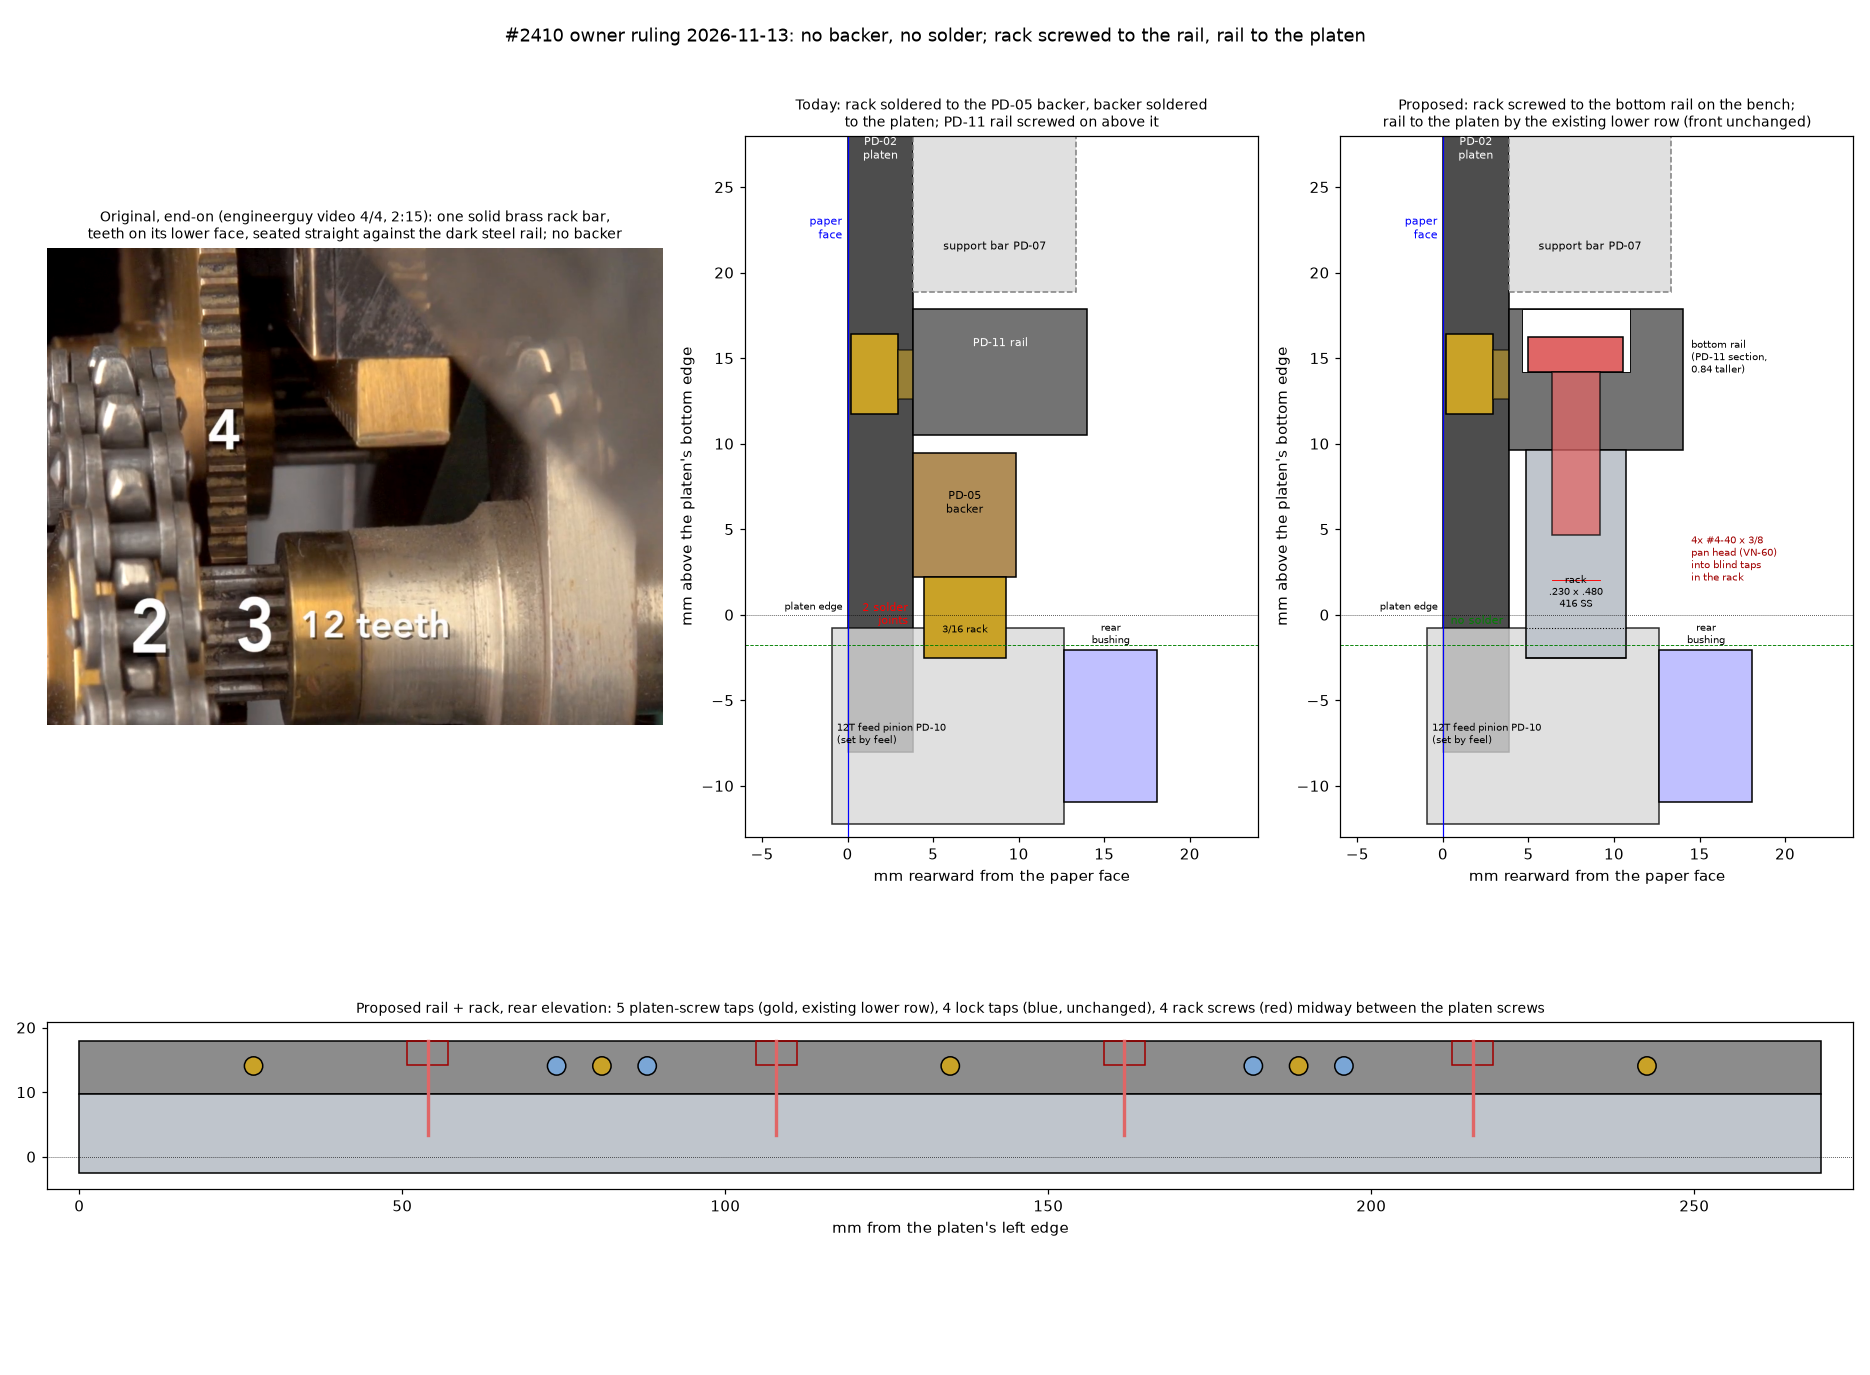
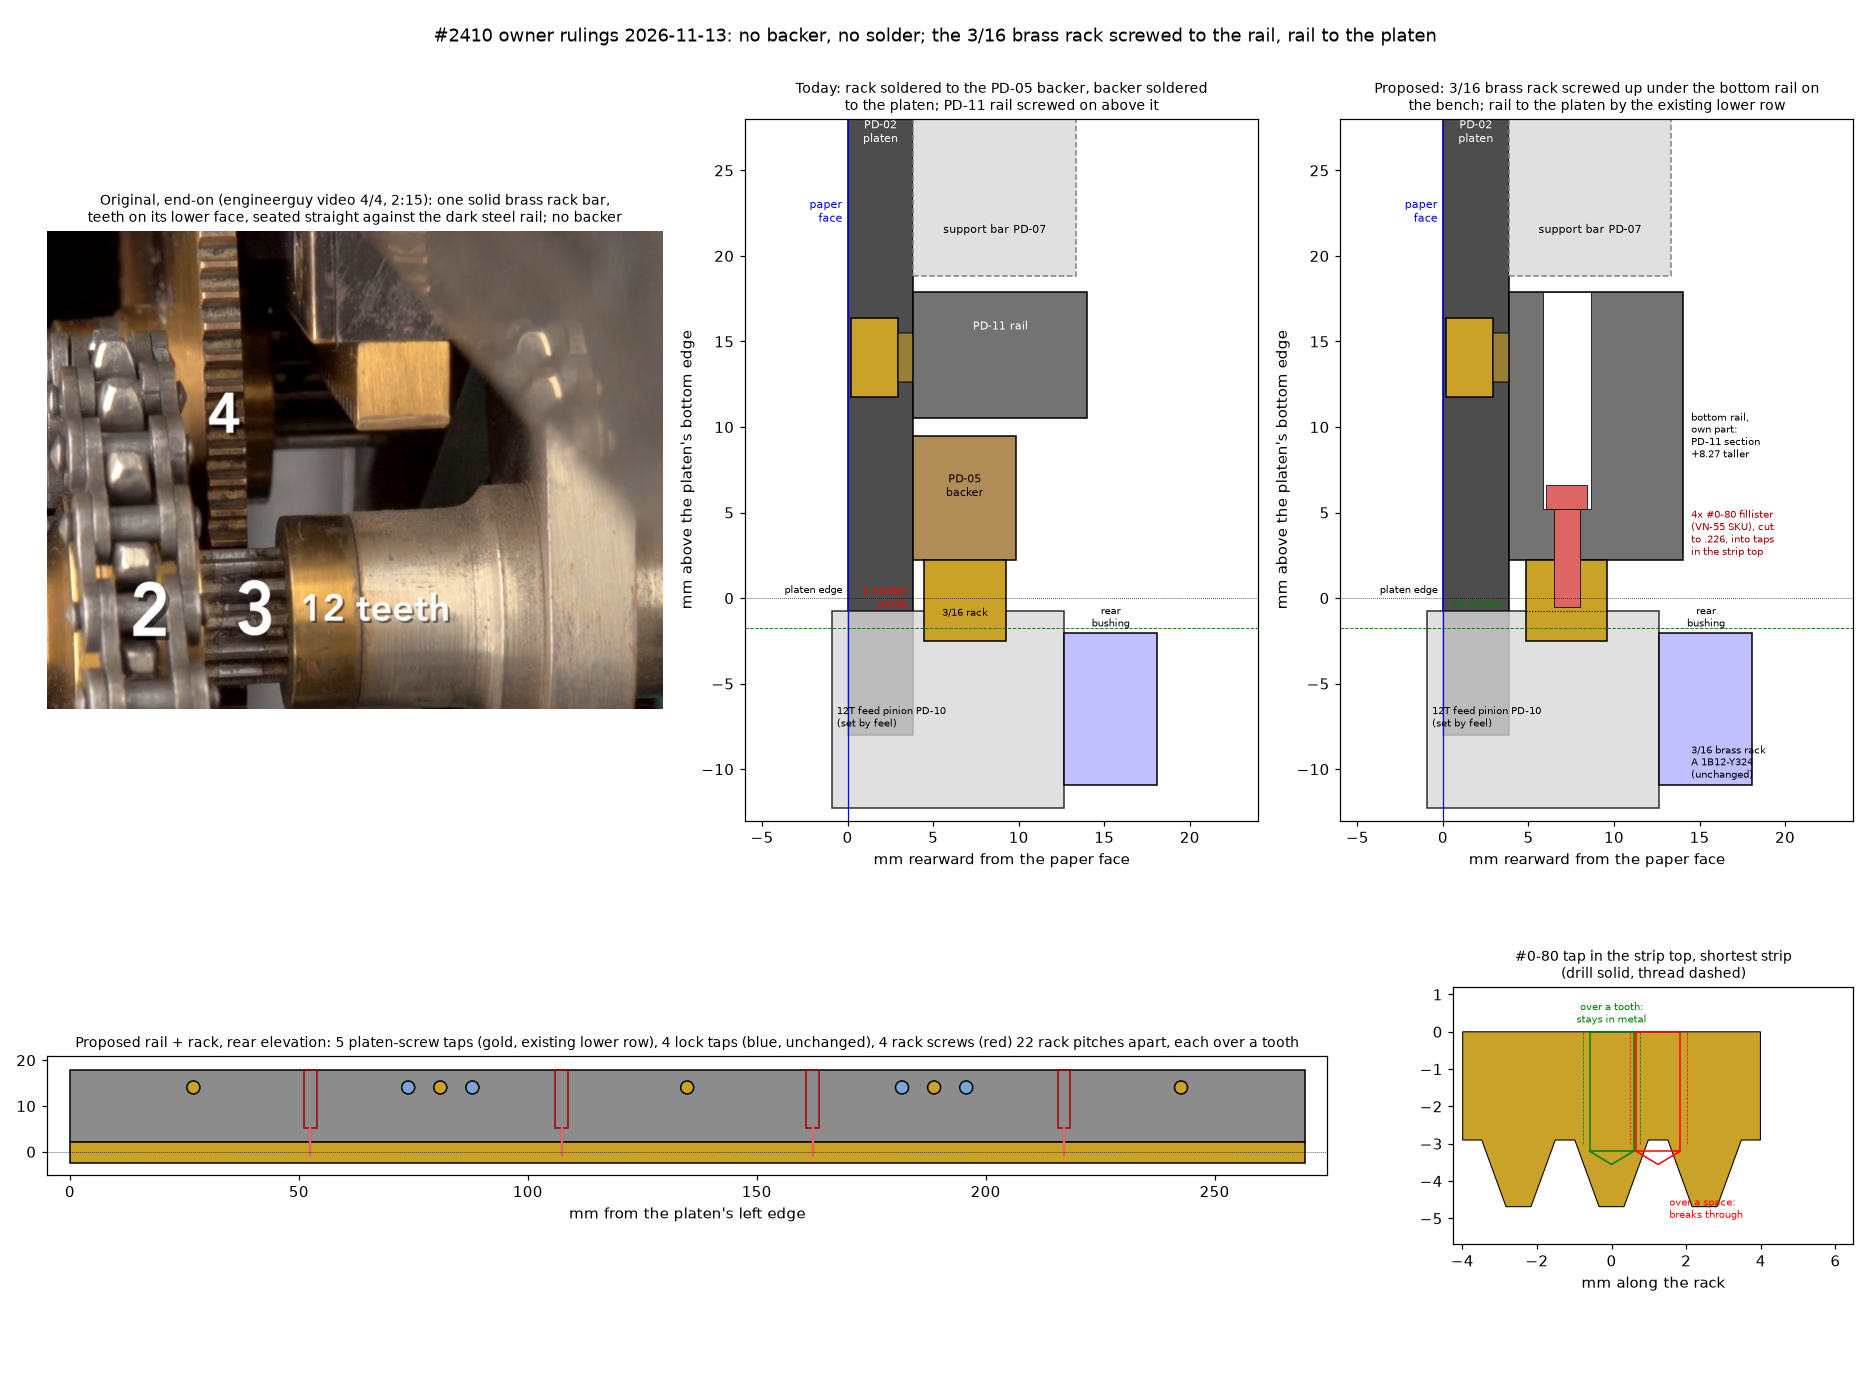
evidence: #2410 keep the 3/16 brass rack, #0-80 screws into the rail

diff --git a/compare_2410_ruling.py b/compare_2410_ruling.py
@@ -46,19 +46,26 @@ bar_bottom = rail_top + A.BOTTOM_RAIL_CLEARANCE
 rail_depth = A.GUIDE_DEPTH
 screw_row_y = p.GUIDE_HOLE_Y[0]
 
-# Proposed purchased rack: SDP/SI S1811Y-RB-2P, 32 DP 20 deg, 416 stainless,
-# face .230 +-.005, height .480 +.000/-.002, pitch line .4487 above the base.
-NEW_FACE = 0.230 * IN
-NEW_FACE_BAND = 0.005 * IN
-NEW_HEIGHT = 0.480 * IN
-NEW_PITCH_HEIGHT = 0.4487 * IN
-NEW_ROOT_FROM_BASE = NEW_PITCH_HEIGHT - F.DEDENDUM_FACTOR * F.MODULE_MM
-new_base_y = crest_y + NEW_HEIGHT
-new_rail_height = rail_top - new_base_y
-new_tap_y_local = screw_row_y - new_base_y
-# Rack front set back from the rail's (platen's) front face: keeps the 12T
-# pinion's full depth over the rack's front (today's margin 0.163 at the
-# worst case with the strip's .62 inset) and air to the rear bushing.
+# Owner 2026-11-13: keep the 3/16 brass A 1B12-Y324 strip, smaller screws.
+# The bottom rail grows down to the strip's top and seats it on its underside.
+STRIP_H = rack.RACK_HEIGHT
+STRIP_W = rack.RACK_THICKNESS
+STRIP_H_ROOM = 0.003 * IN  # drawn-bar proxy (#2694)
+strip_top_y = crest_y + STRIP_H
+new_rail_height = rail_top - strip_top_y
+new_tap_y_local = screw_row_y - strip_top_y
+root_from_top = STRIP_H - rack.ADDENDUM - rack.DEDENDUM
+root_from_top_worst = root_from_top - STRIP_H_ROOM
+TAN20 = math.tan(math.radians(20.0))
+tooth_at_root = rack.PITCH / 2.0 + 2.0 * rack.DEDENDUM * TAN20
+
+
+def tooth_width_below_root(d: float) -> float:
+    return tooth_at_root - 2.0 * d * TAN20
+
+
+# Rack front set back from the rail's (platen's) front face so the 12T's full
+# depth still covers the strip's front (today: .62 inset, margin 0.163).
 SETBACK = 1.0
 SETBACK_BAND = 0.25
 front_margin_today = A.FEED.FULL_DEPTH_MIN - A.RACK_FRONT_FROM_SLEEVE_REAR_WORST
@@ -66,37 +73,46 @@ front_margin_new = front_margin_today + (SETBACK - SETBACK_BAND) - A.RACK_TEETH_
 bushing_other_terms = (
     A.BUSHING_RACK_AIR_NOMINAL - A._RACK_THICKNESS_BAND - A.BUSHING_RACK_AIR_WORST
 )
-new_rack_back = zc(A.BAR_FRONT_Z) + SETBACK + NEW_FACE
 bushing_front = zc(A.REAR_BUSHING_Z0) - RB.LENGTH
-bushing_air_nominal_new = bushing_front - new_rack_back
-bushing_air_worst_new = (
-    bushing_air_nominal_new - NEW_FACE_BAND - SETBACK_BAND - bushing_other_terms
-)
+strip_back_worst = t + SETBACK + SETBACK_BAND + STRIP_W + STRIP_H_ROOM
+bushing_air_worst_new = bushing_front - strip_back_worst - bushing_other_terms
+pinion_axis_y = pitch_y - F.PITCH_DIA / 2.0
+bushing_top_y = pinion_axis_y + RB.OD / 2.0
+rail_bushing_y_gap = strip_top_y - bushing_top_y
 
-# Rack screws: McMaster 91792A108 #4-40 x 3/8 pan head (the MHA-PD-VN-60 lock
-# screw), down through the rail's top into blind taps in the rack's base.
-SCREW_LEN = 0.375 * IN
-SCREW_MAJOR = 0.112 * IN
-PAN_HEAD_DIA = 0.219 * IN
-PAN_HEAD_H = 0.080 * IN
-CB_DIA = 0.250 * IN
-CB_DEPTH = 0.145 * IN
-CLEAR_DIA = 0.120 * IN  # close fit: the rack is transfer-drilled through it
-under_head = new_rail_height - CB_DEPTH
-reach_into_rack = SCREW_LEN - under_head
-FIRST_THREAD_LOSS = IN / 40.0
-engagement = reach_into_rack - FIRST_THREAD_LOSS
-TAP_FULL = 0.25 * IN
-TAP_DRILL = 0.30 * IN
-solid_under_drill = NEW_ROOT_FROM_BASE - TAP_DRILL
-rack_screw_x = tuple(
-    (G.SCREW_STATION_X[i] + G.SCREW_STATION_X[i + 1]) / 2.0 for i in range(4)
-)
+# Screws: the existing #0-80 x 1/4 slotted fillister, McMaster 91794A055
+# (MHA-PD-VN-55), cut to length at assembly like the disc screws.
+import _mcmaster_91794a055 as SCR
+
+SCREW_MAJOR = SCR.SHANK_DIA
+HEAD_DIA = SCR.HEAD_DIA
+HEAD_H = SCR.HEAD_H
+THREAD_PITCH = SCR.PITCH
+UNDER_HEAD_FLOOR = 0.118 * IN  # rail left under the head
+CB_DIA = 0.110 * IN  # #35 drill, from the rail top
+CLEAR_DIA = 0.067 * IN  # #51 close clearance through the floor
+TAP_DRILL = 0.0465 * IN  # #56
+CUT_LEN = 0.226 * IN
+CUT_BAND = 0.005 * IN
+reach = (CUT_LEN - CUT_BAND - UNDER_HEAD_FLOOR, CUT_LEN + CUT_BAND - UNDER_HEAD_FLOOR)
+engagement = tuple(r - THREAD_PITCH for r in reach)
+FULL_THREAD = 0.118 * IN
+DRILL_DEPTH = 0.126 * IN  # full diameter
+point = TAP_DRILL / 2.0 / math.tan(math.radians(59.0))
+cb_depth = new_rail_height - UNDER_HEAD_FLOOR
+below_root_drill = DRILL_DEPTH - root_from_top_worst
+below_root_thread = FULL_THREAD - root_from_top_worst
+below_root_point = DRILL_DEPTH + point - root_from_top_worst
+# Stations: a whole number of circular pitches apart, centred on the platen,
+# so once one hole sits over a tooth all of them do.
+N_PITCH = 22
+centre = G.SCREW_STATION_X[2]
+rack_screw_x = tuple(centre + k * N_PITCH * rack.PITCH / 2.0 for k in (-3, -1, 1, 3))
 nearest_tap = min(
     abs(x - s) for x in rack_screw_x for s in (*G.SCREW_STATION_X, *G.HOLE_X)
 )
-rack_z_centre = zc(A.BAR_FRONT_Z) + SETBACK + NEW_FACE / 2.0
-pinion_axis_y = pitch_y - F.PITCH_DIA / 2.0
+strip_front = t + SETBACK
+screw_z = strip_front + STRIP_W / 2.0
 pinion_rear = zc(A.FEED_Z0)
 pinion_front = pinion_rear - F.FACE_WIDTH
 
@@ -169,69 +185,93 @@ ax.set_title("Today: rack soldered to the PD-05 backer, backer soldered\n"
 
 ax = fig.add_subplot(grid[0, 2])
 platen_and_bar(ax)
-rack_front = t + SETBACK
-ax.add_patch(Rectangle((t, new_base_y), rail_depth, new_rail_height, fc="0.45", ec="k"))
-ax.text(t + rail_depth + 0.5, new_base_y + 4.5, "bottom rail\n(PD-11 section,\n0.84 taller)",
-        ha="left", fontsize=6.5)
-ax.add_patch(Rectangle((rack_front, crest_y), NEW_FACE, NEW_HEIGHT, fc="#bfc5cc", ec="k"))
-for k in range(3):
-    ax.plot([rack_front, rack_front + NEW_FACE], [crest_y + k * 0.0, crest_y], color="k", lw=0.3)
-ax.axhline(crest_y + (NEW_HEIGHT - NEW_ROOT_FROM_BASE), xmin=0, xmax=0, color="k")
-ax.plot([rack_front, rack_front + NEW_FACE], [new_base_y - NEW_ROOT_FROM_BASE] * 2, "k:", lw=0.7)
-ax.text(rack_front + NEW_FACE / 2, crest_y + 3.0, "rack\n.230 x .480\n416 SS", ha="center", fontsize=6.5)
-# rack screw (section at a rack-screw station, between the platen screws)
-cb_floor = rail_top - CB_DEPTH
-ax.add_patch(Rectangle((rack_z_centre - CB_DIA / 2, cb_floor), CB_DIA, CB_DEPTH, fc="w", ec="k", lw=0.6))
-ax.add_patch(Rectangle((rack_z_centre - PAN_HEAD_DIA / 2, cb_floor), PAN_HEAD_DIA, PAN_HEAD_H,
-                       fc="#e06666", ec="k"))
-ax.add_patch(Rectangle((rack_z_centre - SCREW_MAJOR / 2, cb_floor - SCREW_LEN), SCREW_MAJOR, SCREW_LEN,
-                       fc="#e06666", ec="k", alpha=0.75))
-ax.plot([rack_z_centre - 1.4, rack_z_centre + 1.4], [new_base_y - TAP_DRILL] * 2, color="r", lw=0.6)
-ax.text(t + rail_depth + 0.5, 2.0, "4x #4-40 x 3/8\npan head (VN-60)\ninto blind taps\nin the rack",
+ax.add_patch(Rectangle((t, strip_top_y), rail_depth, new_rail_height, fc="0.45", ec="k"))
+ax.text(t + rail_depth + 0.5, strip_top_y + 6.0, "bottom rail,\nown part:\nPD-11 section\n+8.27 taller", fontsize=6.5)
+ax.add_patch(Rectangle((strip_front, crest_y), STRIP_W, STRIP_H, fc="#c9a227", ec="k"))
+ax.plot([strip_front, strip_front + STRIP_W], [strip_top_y - root_from_top] * 2, "k:", lw=0.7)
+ax.text(t + rail_depth + 0.5, -10.5, "3/16 brass rack\nA 1B12-Y324\n(unchanged)", fontsize=6.5)
+cb_floor = strip_top_y + UNDER_HEAD_FLOOR
+ax.add_patch(Rectangle((screw_z - CB_DIA / 2, cb_floor), CB_DIA, rail_top - cb_floor, fc="w", ec="k", lw=0.5))
+ax.add_patch(Rectangle((screw_z - HEAD_DIA / 2, cb_floor), HEAD_DIA, HEAD_H, fc="#e06666", ec="k", lw=0.5))
+ax.add_patch(Rectangle((screw_z - SCREW_MAJOR / 2, cb_floor - CUT_LEN), SCREW_MAJOR, CUT_LEN,
+                       fc="#e06666", ec="k", lw=0.5))
+ax.text(t + rail_depth + 0.5, strip_top_y + 0.3, "4x #0-80 fillister\n(VN-55 SKU), cut\nto .226, into taps\nin the strip top",
         fontsize=6.5, color="#a00000")
 ax.text(t - 0.3, crest_y + 2.0, "no solder", fontsize=7, color="g", ha="right")
-ax.set_title("Proposed: rack screwed to the bottom rail on the bench;\n"
-             "rail to the platen by the existing lower row (front unchanged)", fontsize=9)
+ax.set_title("Proposed: 3/16 brass rack screwed up under the bottom rail on\n"
+             "the bench; rail to the platen by the existing lower row", fontsize=9)
 
 # Rear elevation of the proposed rail + rack (looking forward from behind).
-ax = fig.add_subplot(grid[1, :])
+bottom = grid[1, :].subgridspec(1, 2, width_ratios=(3.2, 1.0))
+ax = fig.add_subplot(bottom[0, 0])
 L = A.GUIDE_LENGTH
-ax.add_patch(Rectangle((0, new_base_y), L, new_rail_height, fc="0.55", ec="k"))
-ax.add_patch(Rectangle((0, crest_y), L, NEW_HEIGHT, fc="#bfc5cc", ec="k"))
+ax.add_patch(Rectangle((0, strip_top_y), L, new_rail_height, fc="0.55", ec="k"))
+ax.add_patch(Rectangle((0, crest_y), L, STRIP_H, fc="#c9a227", ec="k"))
 for x in G.SCREW_STATION_X:
     ax.add_patch(Circle((x, screw_row_y), 1.42, fc="#c9a227", ec="k"))
 for x in G.HOLE_X:
     ax.add_patch(Circle((x, screw_row_y), 1.42, fc="#7aa6d6", ec="k"))
 for x in rack_screw_x:
-    ax.plot([x, x], [rail_top, new_base_y - TAP_FULL], color="#e06666", lw=2.2)
-    ax.add_patch(Rectangle((x - CB_DIA / 2, rail_top - CB_DEPTH), CB_DIA, CB_DEPTH, fc="none", ec="#a00000"))
+    ax.add_patch(Rectangle((x - CB_DIA / 2, cb_floor), CB_DIA, rail_top - cb_floor, fc="none", ec="#a00000"))
+    ax.plot([x, x], [cb_floor, strip_top_y - FULL_THREAD], color="#e06666", lw=1.6)
 ax.axhline(0, color="k", lw=0.5, ls=":")
 ax.set_xlim(-5, L + 5)
 ax.set_ylim(-5, rail_top + 3)
 ax.set_aspect("equal")
 ax.set_title(
     "Proposed rail + rack, rear elevation: 5 platen-screw taps (gold, existing lower row), 4 lock taps "
-    "(blue, unchanged), 4 rack screws (red) midway between the platen screws",
+    f"(blue, unchanged), 4 rack screws (red) {N_PITCH} rack pitches apart, each over a tooth",
     fontsize=9,
 )
 ax.set_xlabel("mm from the platen's left edge")
 
+ax = fig.add_subplot(bottom[0, 1])
+# Strip end-on along its length (x), crest down, 10:1-ish: one tooth under a tap.
+top = 0.0
+root = -root_from_top_worst
+pitch_line = root - rack.DEDENDUM
+crest = pitch_line - rack.ADDENDUM
+half_p = rack.PITCH / 2.0
+xs, ys = [-1.6 * rack.PITCH, -1.6 * rack.PITCH], [top, root]
+for k in (-1, 0, 1):
+    c = k * rack.PITCH
+    w_root = tooth_at_root / 2.0
+    w_crest = (rack.PITCH / 2.0 - 2.0 * rack.ADDENDUM * TAN20) / 2.0
+    xs += [c - w_root, c - w_crest, c + w_crest, c + w_root]
+    ys += [root, crest, crest, root]
+xs += [1.6 * rack.PITCH, 1.6 * rack.PITCH]
+ys += [root, top]
+ax.fill(xs, ys, fc="#c9a227", ec="k", lw=0.7)
+for cx, ok in ((0.0, True), (half_p, False)):
+    colour = "g" if ok else "r"
+    ax.add_patch(Rectangle((cx - TAP_DRILL / 2, top - DRILL_DEPTH), TAP_DRILL, DRILL_DEPTH, fc="none", ec=colour, lw=1.0))
+    ax.plot([cx - TAP_DRILL / 2, cx, cx + TAP_DRILL / 2], [top - DRILL_DEPTH, top - DRILL_DEPTH - point, top - DRILL_DEPTH], color=colour, lw=1.0)
+    ax.plot([cx - SCREW_MAJOR / 2] * 2, [top, top - FULL_THREAD], color=colour, lw=0.5, ls="--")
+    ax.plot([cx + SCREW_MAJOR / 2] * 2, [top, top - FULL_THREAD], color=colour, lw=0.5, ls="--")
+ax.text(0.0, top + 0.25, "over a tooth:\nstays in metal", ha="center", fontsize=6.5, color="g")
+ax.text(half_p + 0.3, crest - 0.3, "over a space:\nbreaks through", ha="left", fontsize=6.5, color="r")
+ax.set_aspect("equal")
+ax.set_xlim(-1.7 * rack.PITCH, 2.6 * rack.PITCH)
+ax.set_ylim(crest - 1.0, top + 1.2)
+ax.set_title("#0-80 tap in the strip top, shortest strip\n(drill solid, thread dashed)", fontsize=9)
+ax.set_xlabel("mm along the rack")
+
 fig.suptitle(
-    "#2410 owner ruling 2026-11-13: no backer, no solder; rack screwed to the rail, rail to the platen",
+    "#2410 owner rulings 2026-11-13: no backer, no solder; the 3/16 brass rack screwed to the rail, rail to the platen",
     fontsize=12,
 )
 fig.tight_layout()
 fig.savefig(sys.argv[1], dpi=110)
 
-print(f"crest {crest_y:.3f}  new rack base {new_base_y:.3f}  today rail bottom {rail_bottom_today:.3f}")
-print(f"bottom rail height {new_rail_height:.3f} ({new_rail_height / IN:.4f} in), grows "
-      f"{rail_bottom_today - new_base_y:.3f}; tap row local {new_tap_y_local:.3f} "
-      f"({new_tap_y_local / IN:.4f} in), wall above tap major {new_rail_height - new_tap_y_local - SCREW_MAJOR / 2:.3f}")
-print(f"rack root from base {NEW_ROOT_FROM_BASE:.3f}; under-head {under_head:.3f}; reach {reach_into_rack:.3f}; "
-      f"engagement {engagement:.3f} = {engagement / SCREW_MAJOR:.2f} D; solid under drill {solid_under_drill:.3f}")
+print(f"strip top {strip_top_y:.3f}; rail bottom today {rail_bottom_today:.3f}; rail height {new_rail_height:.3f} "
+      f"({new_rail_height / IN:.4f} in), grows {rail_bottom_today - strip_top_y:.3f}; tap row local {new_tap_y_local:.3f} ({new_tap_y_local / IN:.4f})")
+print(f"root from strip top {root_from_top:.3f} (worst {root_from_top_worst:.3f}); tooth at root {tooth_at_root:.3f}")
+print(f"reach {reach[0]:.3f}..{reach[1]:.3f}; engagement {engagement[0]:.3f}..{engagement[1]:.3f} = "
+      f"{engagement[0] / SCREW_MAJOR:.2f}..{engagement[1] / SCREW_MAJOR:.2f} D; full thread {FULL_THREAD:.3f}; drill {DRILL_DEPTH:.3f} + point {point:.3f}")
+print(f"over a tooth (worst strip): drill {below_root_drill:.3f} below root, tooth width there {tooth_width_below_root(below_root_drill):.3f} vs drill {TAP_DRILL:.3f}; "
+      f"thread {below_root_thread:.3f} below root, width {tooth_width_below_root(below_root_thread):.3f} vs major {SCREW_MAJOR:.3f}; point tip {below_root_point:.3f} below root")
+print(f"over a space: drill breaks {below_root_drill:.3f} into the gap")
+print(f"counterbore depth from rail top {cb_depth:.3f} ({cb_depth / IN:.3f}); head top below rail top {cb_depth - HEAD_H:.3f}")
 print(f"rack screw x {[round(x, 2) for x in rack_screw_x]}; nearest Z tap {nearest_tap:.2f}")
 print(f"front full-depth margin today {front_margin_today:.3f}, proposed worst {front_margin_new:.3f}")
-print(f"bushing air today worst {A.BUSHING_RACK_AIR_WORST:.3f}; proposed nominal "
-      f"{bushing_air_nominal_new:.3f} worst {bushing_air_worst_new:.3f}")
-print(f"head top below rail top {CB_DEPTH - PAN_HEAD_H:.3f}; rack z band {rack_front:.3f}..{rack_front + NEW_FACE:.3f}")
-print(f"pinion axis y {pinion_axis_y:.3f}; pinion z {pinion_front:.3f}..{pinion_rear:.3f}")
+print(f"bushing air today worst {A.BUSHING_RACK_AIR_WORST:.3f}; proposed worst {bushing_air_worst_new:.3f}; rail bottom over bushing top {rail_bushing_y_gap:.3f}")
